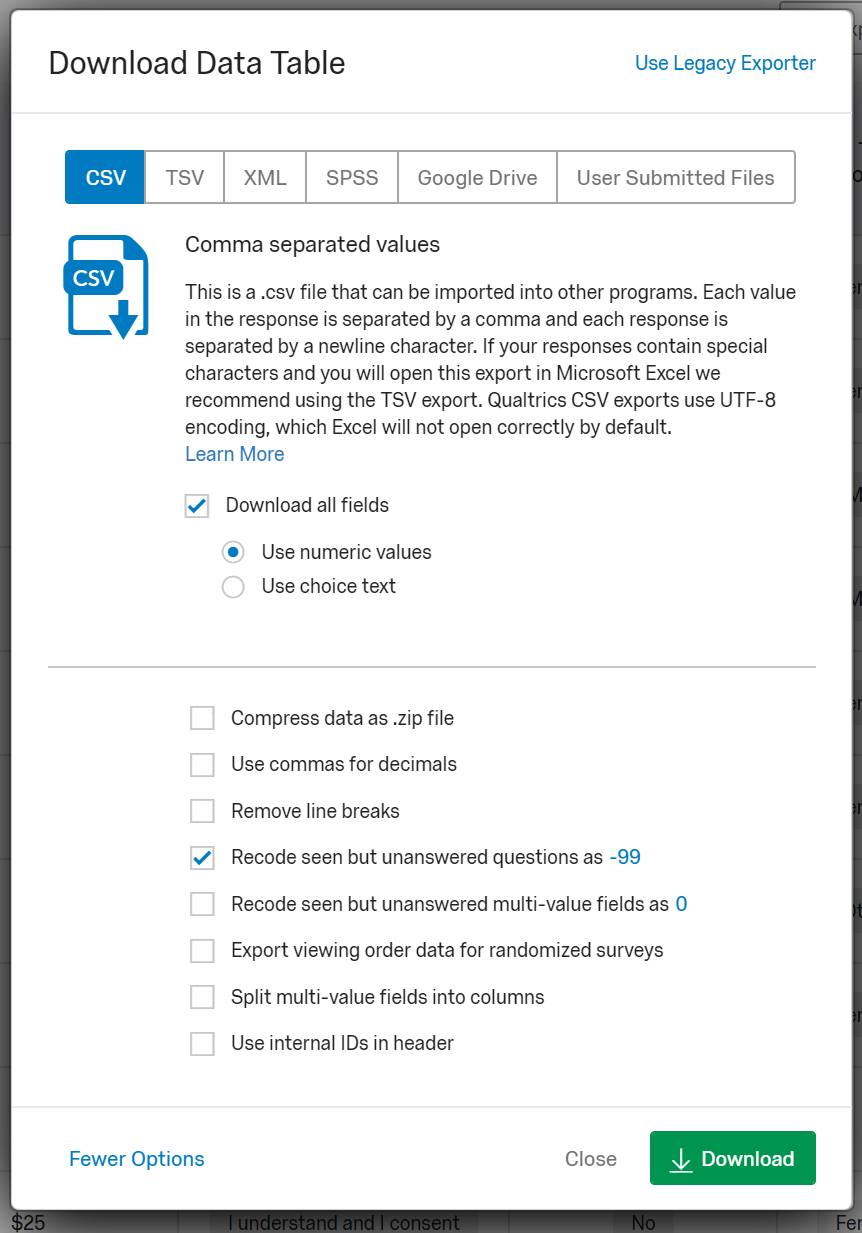
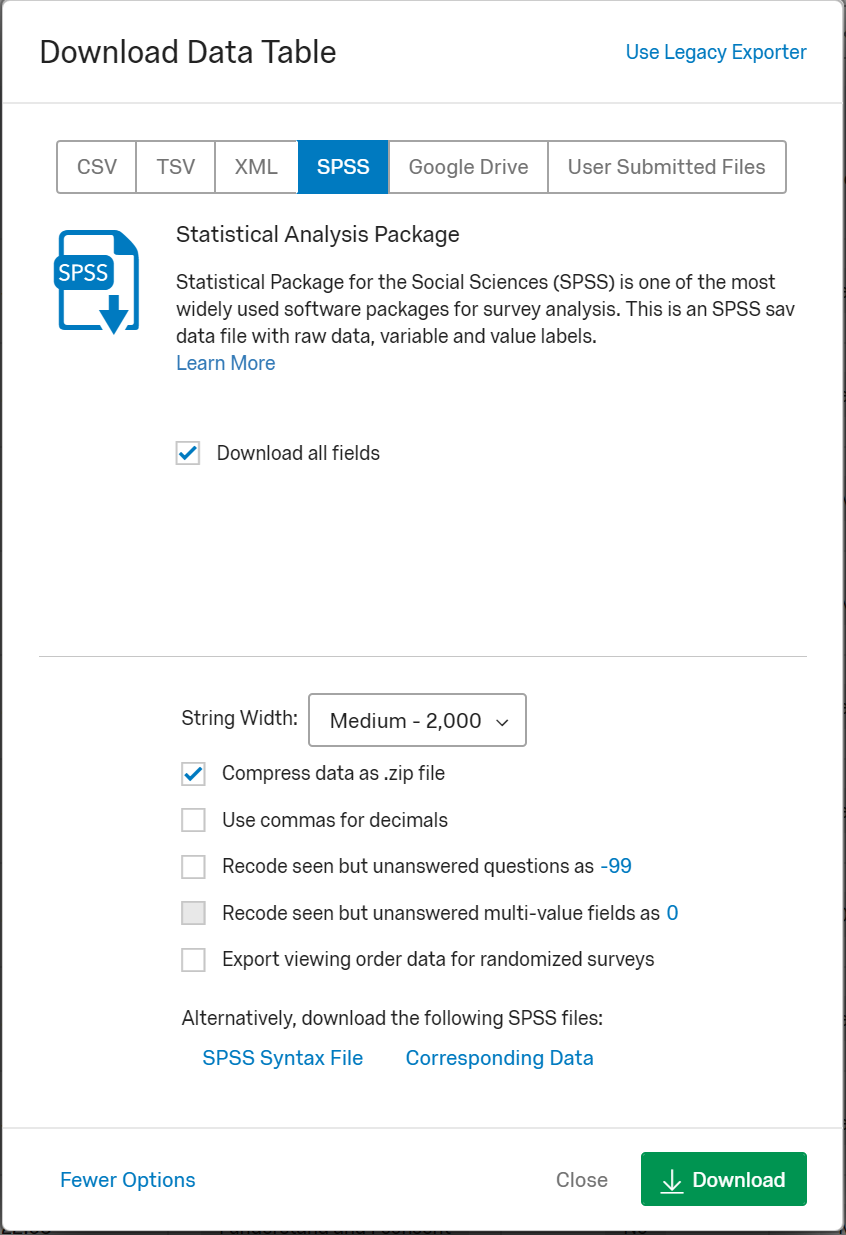
224 export to spss

Changed region(s): [[0.0615, 0.0925, 0.9527, 0.4931], [0.0, 0.0, 1.0, 1.0], [0.2151, 0.5547, 0.7991, 0.8629]]

diff --git a/content/docs/quant_analysis_lab_02.html b/content/docs/quant_analysis_lab_02.html
@@ -25,8 +25,7 @@ menu:
 <li><a href="#summary">Summary</a></li>
 <li><a href="#step-1---how-to-download-your-data-from-qualtrics">Step 1 - How to download your data from Qualtrics</a></li>
 <li><a href="#step-2---creating-a-codebook">Step 2 - Creating a codebook</a></li>
-<li><a href="#step-3---cleaning-your-data">Step 3 - Cleaning your data</a></li>
-<li><a href="#step-4---importing-into-spss">Step 4 - Importing into SPSS</a></li>
+<li><a href="#step-3---importing-into-spss">Step 3 - Importing into SPSS</a></li>
 </ul>
 </div>
 
@@ -37,8 +36,7 @@ menu:
 <li>Step 1: download the data (generally from Qualtrics),</li>
 <li>Step 2: make a codebook,<br />
 </li>
-<li>Step 3: clean up your data, and then</li>
-<li>Step 4: import your data into SPSS.</li>
+<li>Step 3: import your data into SPSS.</li>
 </ul>
 </div>
 <div id="step-1---how-to-download-your-data-from-qualtrics" class="section level1">
@@ -67,15 +65,13 @@ menu:
 </ol>
 <p>My recommendation is to choose:</p>
 <ul>
-<li>“Use numeric values”</li>
-<li>Download as CSV file</li>
+<li>Download as SPSS file</li>
 <li>UNSELECT “Compress data as .zip file”</li>
-<li>SELECT “Recode seen but unanswered questions as -99”</li>
 </ul>
 <p><img src="/img/htad_lesson_02_image_05.png" width="400" style="display: block; margin: auto;" /></p>
 <ol start="9" style="list-style-type: decimal">
 <li><p>Click the Download button</p></li>
-<li><p>Save dataset on your computer with some relevant name such as “Survey Data.csv”</p></li>
+<li><p>Save dataset on your computer with some relevant name such as “Survey Data.sav”</p></li>
 </ol>
 </div>
 <div id="step-2---creating-a-codebook" class="section level1">
@@ -101,39 +97,17 @@ menu:
 <p>If you open this Word document, you will see how next to each choice for a survey there is a number. For example, in the image below, you can see that “Under 18” is coded as “1”.</p>
 <p><img src="/img/htad_lesson_02_image_08.png" width="600" style="display: block; margin: auto;" /></p>
 </div>
-<div id="step-3---cleaning-your-data" class="section level1">
-<h1>Step 3 - Cleaning your data</h1>
+<div id="step-3---importing-into-spss" class="section level1">
+<h1>Step 3 - Importing into SPSS</h1>
 <ol style="list-style-type: decimal">
-<li>Before you import your data into SPSS, you are probably going to want to clean it up.</li>
-</ol>
-<p>The first step is to open it in Excel.</p>
-<p>You are looking for open ended questions which respondants are likely to have put data that SPSS can’t analyse.</p>
-<p>You can see in the image below, the question asks “What is your base hourly wage?” and it provided a text box for people to type in.</p>
-<p>However, the data people have left is messy. Some put dollar signes, most didn’t. Some put ranges. Some put “Not sure”</p>
-<p>You will need to clean this up. The way you want to do this is by having some clear rules, and writing them down in your codebook.</p>
-<p>For this, I would suggest the following rules;</p>
-<ul>
-<li>remove all dollar signs</li>
-<li>replace ranges with the mean of the two numbers given (e.g. if they say 5-10, then change to 7.5)</li>
-<li>replace “Not sure” and similar with missing -99</li>
-</ul>
-<p><img src="/img/htad_lesson_02_image_09.png" width="200" style="display: block; margin: auto;" /></p>
-<ol start="2" style="list-style-type: decimal">
-<li>After you have cleaned up your data, save it as an excel file (.xlsx). This is needed for importing into SPSS.</li>
-</ol>
-</div>
-<div id="step-4---importing-into-spss" class="section level1">
-<h1>Step 4 - Importing into SPSS</h1>
-<ol style="list-style-type: decimal">
-<li><p>To get your datafile into iLab, you will need to put your excel file on a USB drive.</p></li>
+<li><p>To get your datafile into iLab the easiest thing to do is to either (1) download from Qualtrics (but you can only do this the first time), or (2) email to yourself (by logging into your email inside iLab) or (3) using a USB drive.</p></li>
 <li><p>Go into iLab, and then open SPSS (see Lab 1).</p></li>
 <li><p>Close the first dialogue box that opens</p></li>
 <li><p>Go to File &gt; Open &gt; Data</p></li>
 </ol>
 <p><img src="/img/htad_lesson_02_image_10.png" width="600" style="display: block; margin: auto;" /></p>
 <ol start="4" style="list-style-type: decimal">
-<li><p>In the dialogue box that opens, change Files of type to Excel.</p></li>
-<li><p>Navigate to select your dataset.</p></li>
+<li>In the dialogue box that opens navigate and select your dataset.</li>
 </ol>
 <p><img src="/img/htad_lesson_02_image_11.png" width="600" style="display: block; margin: auto;" /></p>
 <center>
